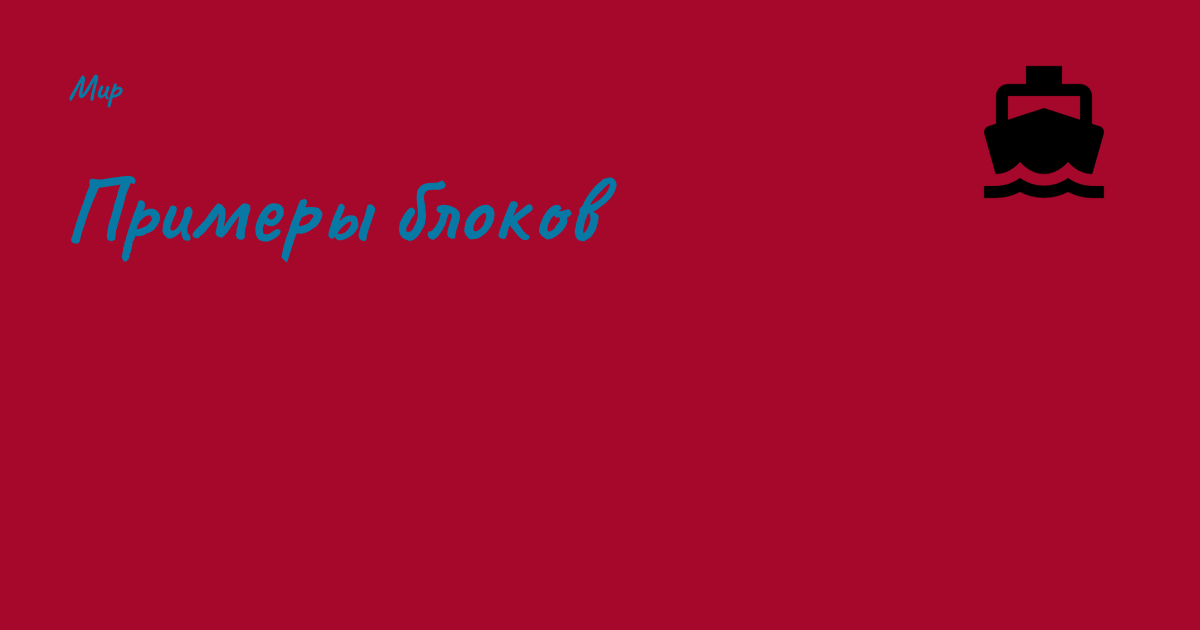
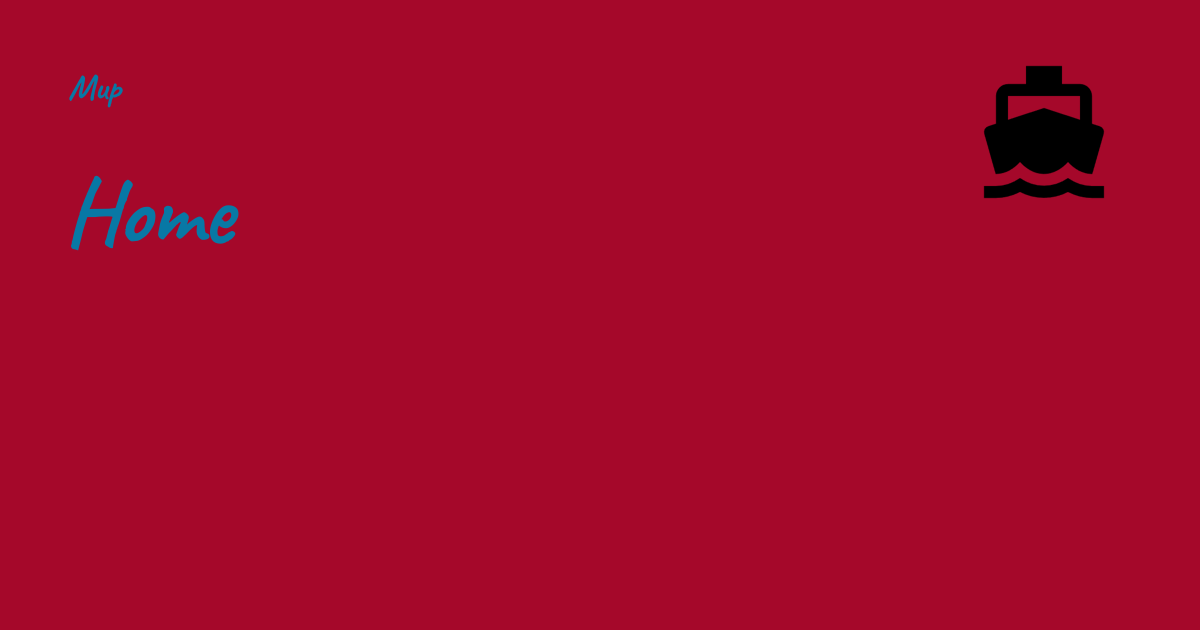
Deployed d454eaf with MkDocs version: 1.6.1

Changed region(s): [[0.0617, 0.2714, 0.5242, 0.4222]]

diff --git a/index.html b/index.html
@@ -68,7 +68,7 @@
 <div class="md-header__topic" data-md-component="header-topic">
 <span class="md-ellipsis">
             
-              Примеры блоков
+              Home
             
           </span>
 </div>
@@ -459,7 +459,8 @@
 <a class="md-content__button md-icon" href="https://github.com/Andrei77-7/mkdocsmat/edit/master/docs/index.md" title="Редактировать страницу">
 <svg viewbox="0 0 24 24" xmlns="http://www.w3.org/2000/svg"><path d="M10 20H6V4h7v5h5v3.1l2-2V8l-6-6H6c-1.1 0-2 .9-2 2v16c0 1.1.9 2 2 2h4zm10.2-7c.1 0 .3.1.4.2l1.3 1.3c.2.2.2.6 0 .8l-1 1-2.1-2.1 1-1c.1-.1.2-.2.4-.2m0 3.9L14.1 23H12v-2.1l6.1-6.1z"></path></svg>
 </a>
-<div><h1 id="_1">Примеры блоков</h1>
+<div><iframe allowfullscreen="" frameborder="0" height="480px" marginheight="0" marginwidth="0" mozallowfullscreen="" msallowfullscreen="" src="https://forms.office.com/Pages/ResponsePage.aspx?id=DQSIkWdsW0yxEjajBLZtrQAAAAAAAAAAAAMAAJfCWExUOVkyTkJTNUROWEFJT1NDN1I4SlNRNkZXUC4u&amp;embed=true" style="border: none; max-width:100%; max-height:100vh" webkitallowfullscreen="" width="640px"> </iframe>
+<h1 id="_1">Примеры блоков</h1>
 <div class="grid cards">
 <ul>
 <li>
